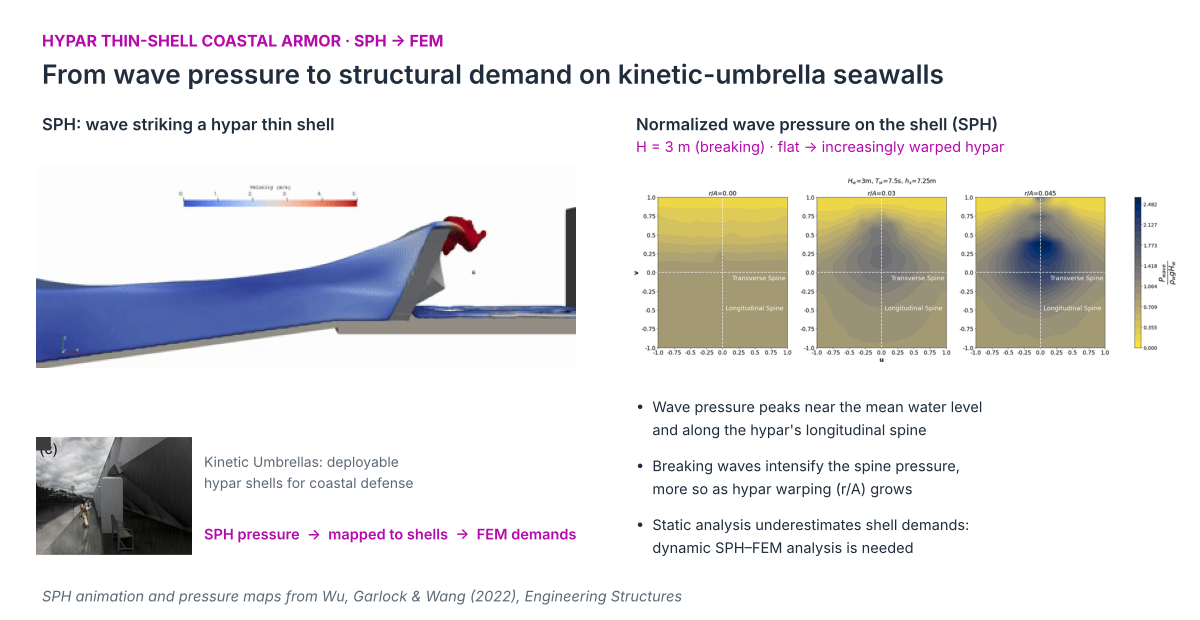
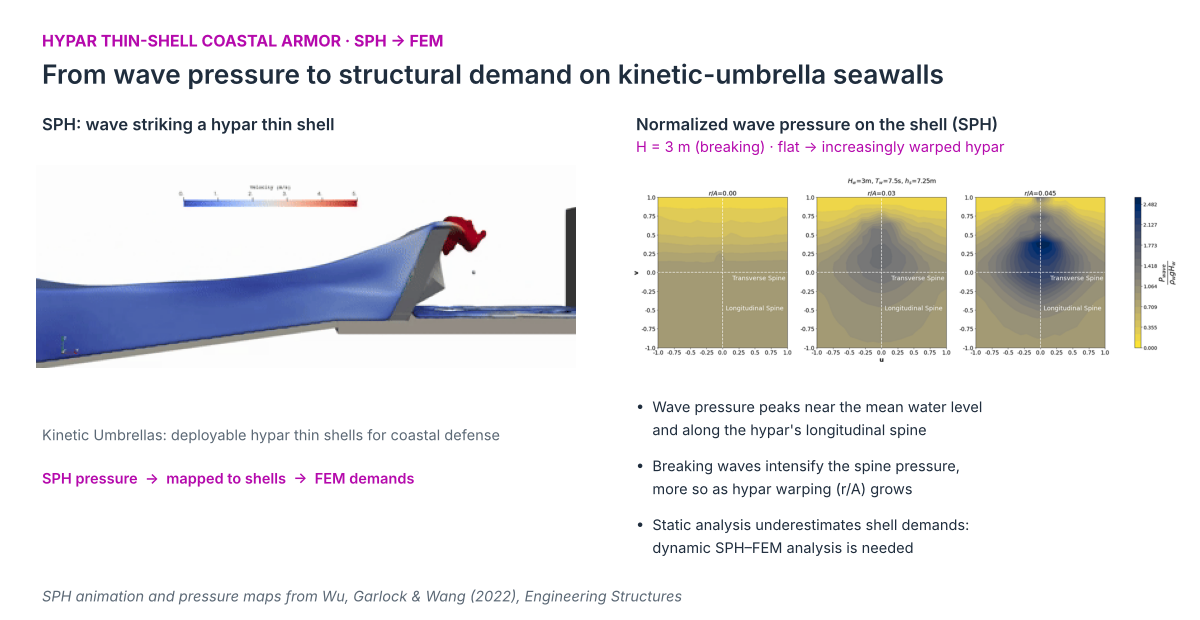
Remove Kinetic Umbrella photo from 2022 graphical abstract
Claude-Session: https://claude.ai/code/session_01KQ5gVpxi52AmFkk6va2d8k

Changed region(s): [[0.0308, 0.6742, 0.4933, 0.9194]]

diff --git a/bin/graphical_abstracts/r_es2022.py b/bin/graphical_abstracts/r_es2022.py
@@ -20,11 +20,10 @@ for f in range(n):
     header(fig, "Hypar thin-shell coastal armor · SPH → FEM", "From wave pressure to structural demand on kinetic-umbrella seawalls")
     ax = fig.add_axes([0.03, 0.36, 0.45, 0.42]); ax.imshow(src[f]); ax.axis("off")
     fig.text(0.035, 0.79, "SPH: wave striking a hypar thin shell", fontsize=12, fontweight="semibold", color=INK)
-    ai = fig.add_axes([0.03, 0.08, 0.13, 0.24]); ai.imshow(umb); ai.axis("off")
-    fig.text(0.17, 0.27, "Kinetic Umbrellas: deployable\nhypar shells for coastal defense", fontsize=10, color=MUTED, va="top", linespacing=1.25)
+    fig.text(0.035, 0.29, "Kinetic Umbrellas: deployable hypar thin shells for coastal defense", fontsize=10.5, color=MUTED)
     for i, s in enumerate(["SPH wave pressure", "mapped to shell elements", "FEM: shell & column demands"]):
         fig.text(0.17 + i * 0.105 if i else 0.17, 0.13 if i == 0 else 0.13, "", fontsize=1)
-    fig.text(0.17, 0.13, "SPH pressure  →  mapped to shells  →  FEM demands", fontsize=10.5, color=ACCENT, fontweight="semibold")
+    fig.text(0.035, 0.22, "SPH pressure  →  mapped to shells  →  FEM demands", fontsize=10.5, color=ACCENT, fontweight="semibold")
     fig.text(0.53, 0.79, "Normalized wave pressure on the shell (SPH)", fontsize=12, fontweight="semibold", color=INK)
     fig.text(0.53, 0.755, f"{labs[k]} · flat → increasingly warped hypar", fontsize=10.5, color=ACCENT if k == 2 else MUTED)
     am = fig.add_axes([0.52, 0.4, 0.46, 0.34]); am.imshow(maps[k]); am.axis("off")
